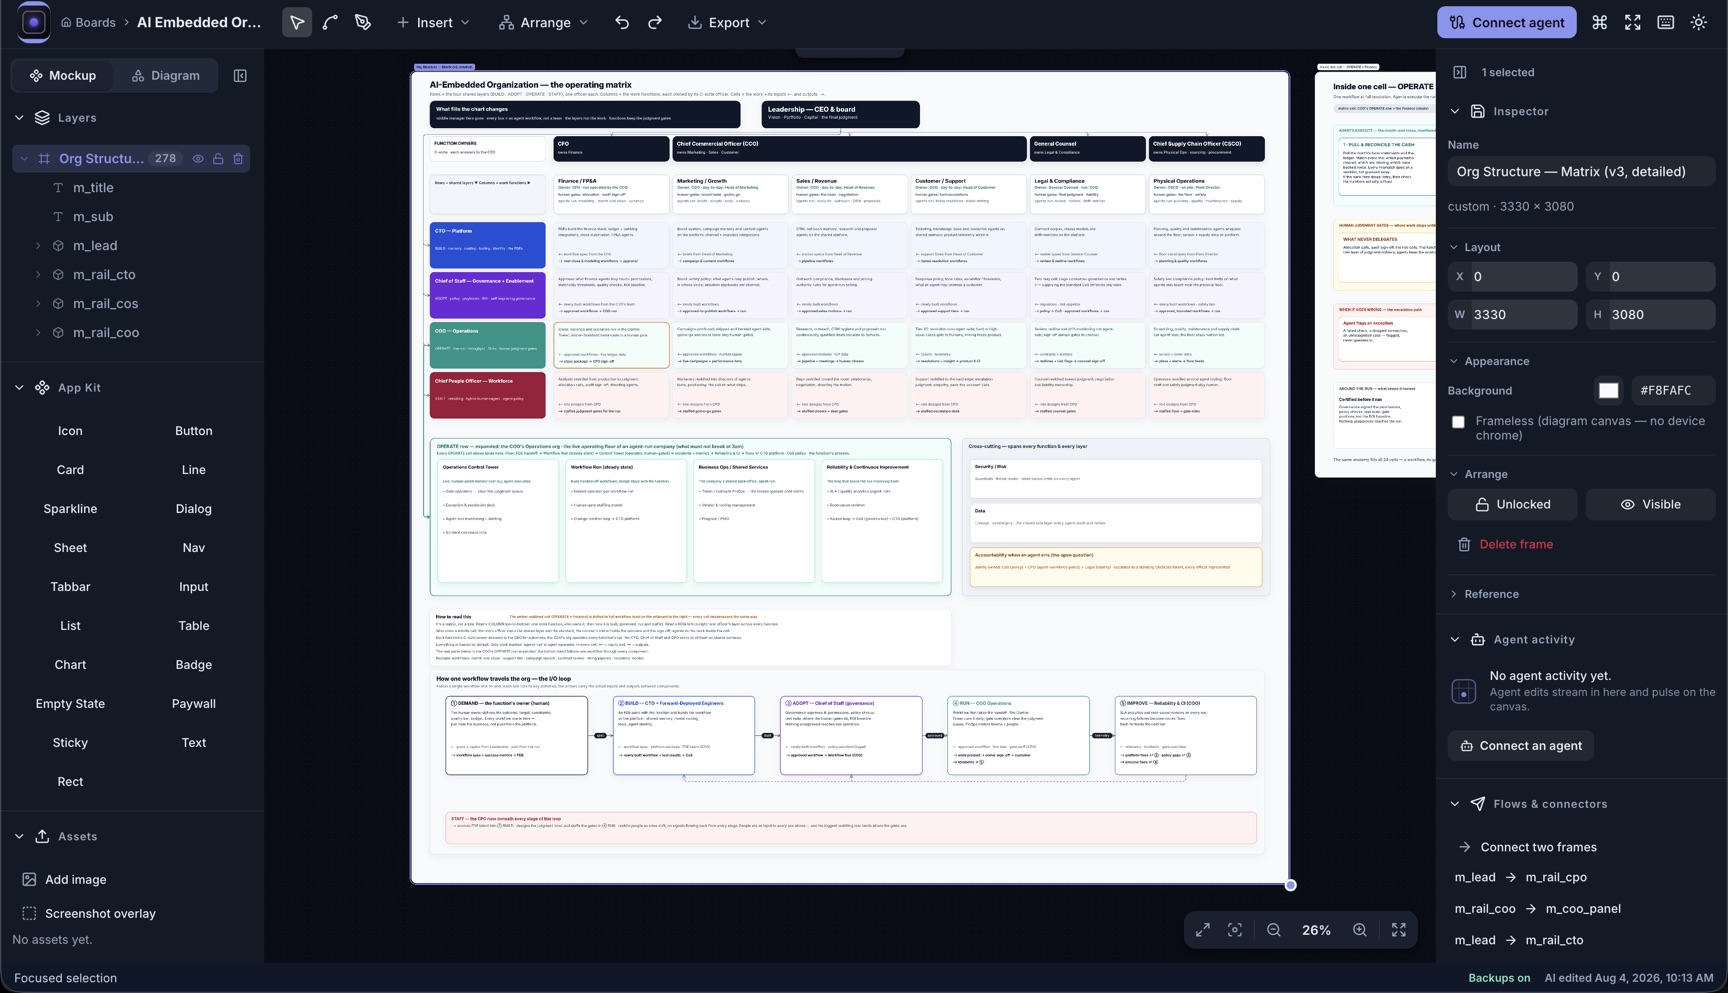
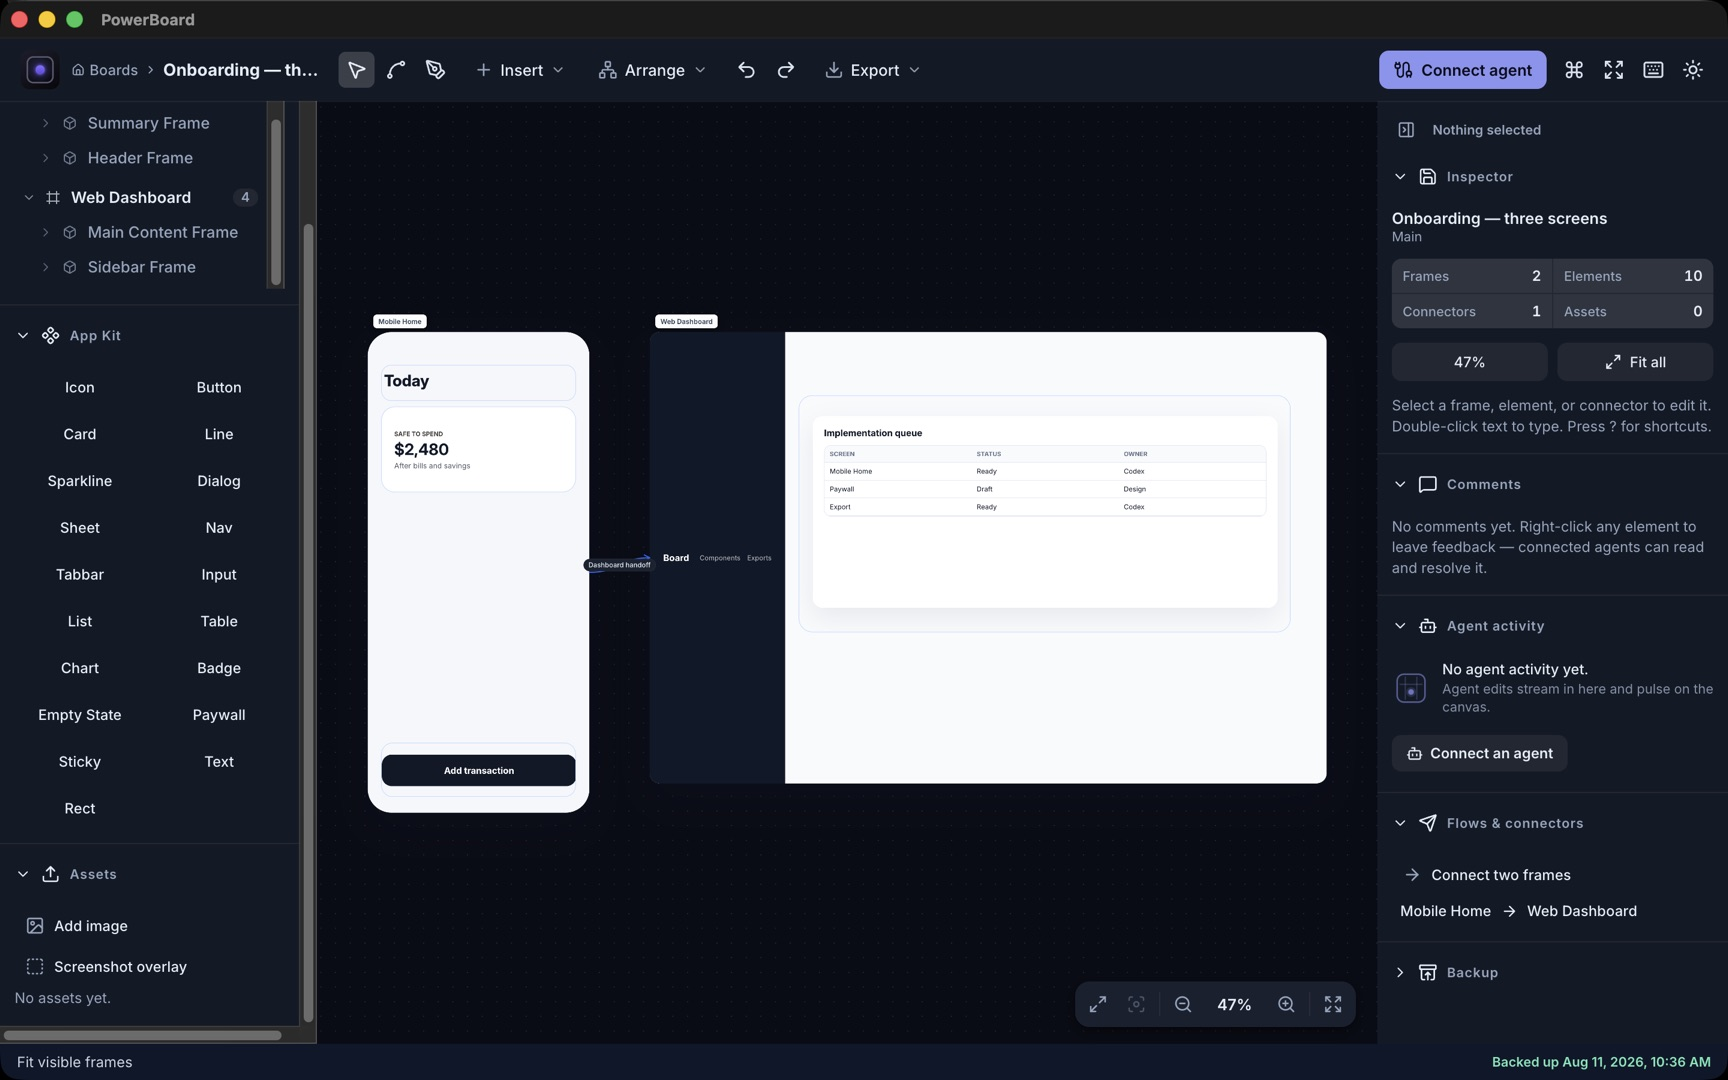
Website: reshoot the two full-app screenshots, and stop claiming iCloud backups
The hero and board-list shots were captured on 6 August and both showed the dark-mode
brand-mark bug — a violet tile bleeding around the logo — plus the grey UA button-face on
"How to connect". A page whose whole job is showing the product was showing two rendering
bugs as if they were the product. Both are recaptured from the fixed 1.0.0 Electron build
at 2880×1800 and downscaled to 1728 wide; alt text now describes what is actually in frame
(the old text described a 3,330×3,080 org chart and seven boards that no longer exist —
those boards lived in the Supabase project, which is paused).

Two claims were also wrong rather than stale. The MCP tool count said 41; `npm run mcp:check`
answers 47. And both the landing page and the privacy policy promised snapshot backups into
your iCloud Drive, which the Mac App Store build cannot do: the sandbox has no iCloud
container entitlement, so `defaultBackupDir()` writes inside the app container under
`process.mas`. That would have shipped as a false privacy-policy claim on the day the app
went live. Both now describe what the shipped build actually does.

diff --git a/powerboard_website/index.html b/powerboard_website/index.html
@@ -64,7 +64,7 @@
 
   <div class="hero-shot rise">
     <div class="shot">
-      <img src="assets/shots/1-hero.jpg" width="1728" height="993" fetchpriority="high" alt="PowerBoard on macOS: a 3,330 × 3,080 org-structure diagram on the canvas, the layer tree on the left, and the inspector showing the frame's layout and appearance on the right." />
+      <img src="assets/shots/1-hero.jpg" width="1728" height="1080" fetchpriority="high" alt="PowerBoard on macOS: two device frames on the canvas joined by a labelled connector, the layer tree and app-kit palette on the left, and the inspector showing the board's frame, element and connector counts on the right." />
     </div>
   </div>
 </header>
@@ -106,7 +106,7 @@
     <div class="feature-copy">
       <h2>Any MCP client, one URL.</h2>
       <p>PowerBoard serves its own MCP endpoint while the app is open. Paste one URL into Claude Desktop, Claude Code, Cursor, or anything else that speaks MCP, and ask it to list your boards.</p>
-      <p><strong>41 tools</strong> are exposed — inspect the hierarchy, create frames, add elements and connectors, apply layouts, preview an operation before it's applied, validate the board, undo, and export.</p>
+      <p><strong>47 tools</strong> are exposed — inspect the hierarchy, create frames, add elements and connectors, apply layouts, preview an operation before it's applied, validate the board, undo, and export.</p>
       <ul class="tags">
         <li>Streamable HTTP &amp; stdio</li>
         <li>Hierarchy inspection</li>
@@ -160,16 +160,16 @@
 <section class="feature wrap flip rise" id="files">
   <div class="feature-copy">
     <h2>Your boards are files on your Mac.</h2>
-    <p>PowerBoard runs offline, start to finish. Boards are JSON in your own application-support folder, with snapshot backups into your iCloud Drive — no account, no sign-in, nothing to lose access to.</p>
+    <p>PowerBoard runs offline, start to finish. Boards are JSON in your own application-support folder, with compressed snapshot backups you can roll back to — no account, no sign-in, nothing to lose access to.</p>
     <p>Saving is never best-effort and quiet: if a write fails, the app <strong>says so, visibly</strong>, rather than looking like it saved.</p>
     <ul class="tags">
       <li>Offline-first</li>
       <li>Local JSON</li>
-      <li>iCloud snapshot backups</li>
+      <li>Snapshot backups</li>
       <li>No account</li>
     </ul>
   </div>
-  <div class="feature-shot"><div class="shot"><img src="assets/shots/7-boards.jpg" width="1728" height="941" alt="PowerBoard's board list: seven boards with frame and element counts, a local-files badge, and a banner showing the MCP endpoint agents can connect to." loading="lazy" /></div></div>
+  <div class="feature-shot"><div class="shot"><img src="assets/shots/7-boards.jpg" width="1728" height="1080" alt="PowerBoard's board list: three boards with frame and element counts, a local-files badge, and a banner showing the MCP endpoint agents can connect to." loading="lazy" /></div></div>
 </section>
 
 <section class="band wrap rise">

diff --git a/powerboard_website/privacy.html b/powerboard_website/privacy.html
@@ -31,7 +31,7 @@
   <p>PowerBoard is built so your work stays yours. There are no accounts, no ads, and no third-party trackers. This page describes everything the app stores and everything that can leave your Mac.</p>
 
   <h2>Your boards stay with you</h2>
-  <p>Boards, the images you place on them, and the files you export are stored on your Mac in PowerBoard's own application-support folder. If snapshot backups are on, compressed copies are written to <strong>your own iCloud Drive</strong> — which is your Apple account, not ours. We operate no server that holds your boards, and we cannot read them.</p>
+  <p>Boards, the images you place on them, and the files you export are stored on your Mac in PowerBoard's own application-support folder. If snapshot backups are on, compressed copies are written beside them, inside the app's own container on your Mac. We operate no server that holds your boards, and we cannot read them.</p>
 
   <h2>Agent connections are local, and you start them</h2>
   <p>PowerBoard can serve an MCP endpoint on your own machine (<span class="mono">127.0.0.1</span>) so an AI client you already run — Claude Desktop, Claude Code, Cursor, or another — can read and edit the board you are looking at. That endpoint is <strong>local to your Mac</strong>; PowerBoard does not send your boards anywhere on its own.</p>
@@ -50,7 +50,7 @@
   <p>No location, no contacts, no photos beyond the images you place on a board yourself, no microphone, no advertising identifiers.</p>
 
   <h2>Data retention and deletion</h2>
-  <p>Boards live on your Mac and in your iCloud; deleting them there deletes them everywhere we know of. To have email correspondence deleted, write to the address below.</p>
+  <p>Boards live on your Mac; deleting them there deletes them everywhere we know of. To have email correspondence deleted, write to the address below.</p>
 
   <h2>Changes</h2>
   <p>If this policy changes in a way that matters, the updated page will appear here with a new date before the change takes effect.</p>
